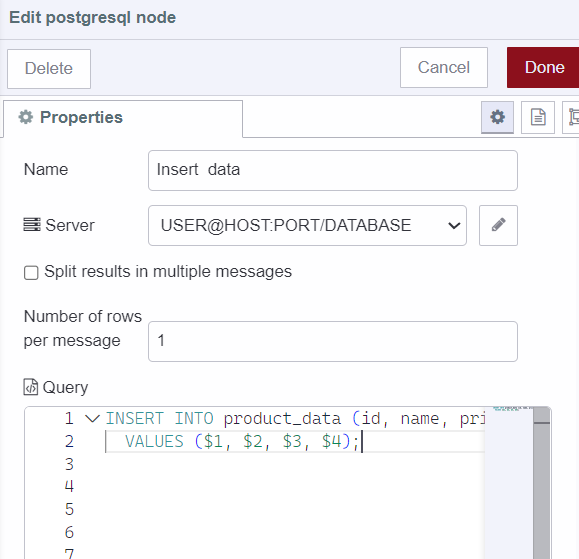
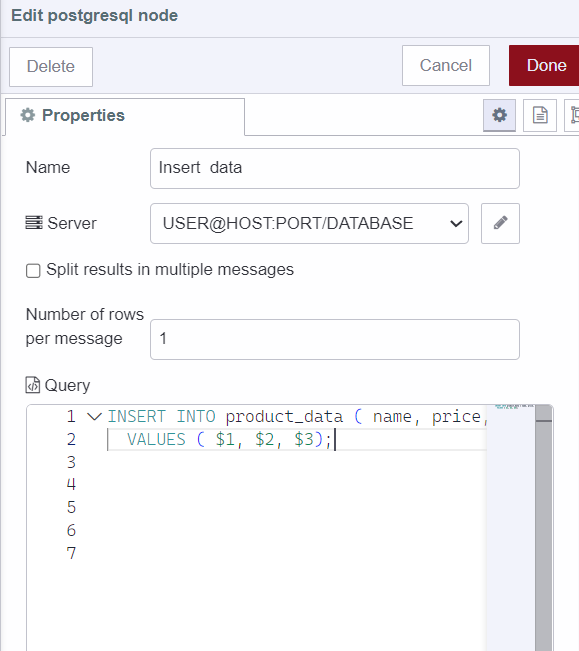
update blog post

diff --git a/src/blog/2024/02/postgresql-with-node-red.md b/src/blog/2024/02/postgresql-with-node-red.md
@@ -31,14 +31,14 @@ The first thing we need to do to get things started is to install the PostgreSQL
 - Host: IP address or hostname of your PostgreSQL server.
 - Port: By default, PostgreSQL uses port 5432. Ensure this matches your PostgreSQL server configuration.
 - Database: The name of the PostgreSQL database you want to connect to.
-- User: username with the necessary privileges to access the specified database.
-- Password: corresponding password for the username.
+- User: Username with the necessary privileges to access the specified database.
+- Password: Corresponding password for the username.
 
 3. Drag the PostgreSQL node onto the canvas, click on that node and click on the edit icon next to the server input field to configure it.
 
-!["Configuring PostgreSQL"](./images/postgresql_with_node-red_pgconfig1.png "Configuring PostgreSQL")
+!["Configuring PostgreSQL - connection tab"](./images/postgresql_with_node-red_pgconfig1.png "Configuring PostgreSQL - connection tab")
 
-!["Configuring PostgreSQL"](./images/postgresql_with_node-red_pgconfig2.png "Configuring PostgreSQL")
+!["Configuring PostgreSQL - security tab"](./images/postgresql_with_node-red_pgconfig2.png "Configuring PostgreSQL - security tab")
 # Adding environment variables 
 
 We have discussed many times in previous blogs that using environment variables is a best practice that prevents revealing confidential configuration details such as API keys, passwords, secret keys, etc directly in the flow. Therefore, In this section, we will add environment variables for PostgreSQL configuration details, for more details see  [Using Environment Variables in Node-RED](https://flowfuse.com/blog/2023/02/environment-variables-in-node-red/).
@@ -59,8 +59,8 @@ In this section, we will create a table in our database to store product data.
 ```sql
 -- Create a table named product_data if it does not already exist
 CREATE TABLE IF NOT EXISTS product_data (
-  -- Define a column named id as a bigint type, which serves as the primary key
-  id SERIAL PRIMARY KEY,
+  -- Define a column named id as a SERIAL type, which serves as the primary key
+  id SERIAL PRIMARY KEY, -- SERIAL data type automatically generates unique integer values for each row inserted into the table
   
   -- Define a column named name to store product names as variable-length character strings with a maximum length of 100 characters, ensuring it's not null
   name varchar(100) NOT NULL,
@@ -86,16 +86,16 @@ In this section, we will add a Form interface that will enable us to obtain prod
 
 !["Adding form to insert data"](./images/postgresql_with_node-red_form1.png "Adding form to insert data")
 1. Drag a Ui-Form widget onto the canvas and select the created group.
-2. Add an element for all required input data in the form widget and give it a name, label, and select type, I have selected 'number' as a type for 'product id', 'price', and 'stock', and 'text' for 'name', but feel free to adjust according to your preference and data requirements.
+2. Add an element for all required input data in the form widget and give it a name, label, and select type, I have selected 'number' as a type for 'price' and 'stock', and 'text' for 'name', but feel free to adjust according to your preference and data requirements.
 3. Drag the function node onto Canvas and paste the following script.
 
 ```javascript
 // Destructure the properties from msg.payload (obtained data by using form)
-const { id, name, price, stock } = msg.payload;
-// Create an array containing id, name, price, and stock
+const {name, price, stock } = msg.payload;
+// Create an array containing name, price, and stock
 // The order of the array items in msg.params will correspond to the placeholders in the SQL query
-// For example, $1 will be replaced by the value of id, $2 will be replaced by the value of name, and so on
-msg.params = [id, name, price, stock];
+// For example, $1 will be replaced by the value of name, $2 will be replaced by the value of price, and so on
+msg.params = [name, price, stock];
 return msg;
 ```
 
@@ -103,14 +103,14 @@ return msg;
 
 ```sql
 -- This is an SQL INSERT statement used to add data into the product_data table.
-INSERT INTO product_data (id, name, price, stock)
--- This line specifies the columns into which data will be inserted. The columns are id, name, price, and stock.
+INSERT INTO product_data ( name, price, stock)
+-- This line specifies the columns into which data will be inserted. The columns are name, price, and stock.
 -- It's important to match the columns in the same order as the values in the next line.
-VALUES ($1, $2, $3, $4);
+VALUES ($1, $2, $3);
 ```
 !["Inserting data into database"](./images/postgresql_with_node-red_insert_data.png "Inserting data into database")
 
-5. Connect ui-form’s output to function node’s input, and function node's output to the PostgreSQL node’s input.
+5. Connect Ui-form’s output to function node’s input, and function node's output to the PostgreSQL node’s input.
 
 # Displaying product data on Dashboard 2.0
 In this section, we will retrieve all data from our database table and display it on Dashboard 2.0 using the Ui-table widget.
@@ -118,7 +118,7 @@ In this section, we will retrieve all data from our database table and display i
 1. Drag an Inject node onto canvas.
 2. Drag a PostgreSQL node onto the Canvas and click on that node and paste the following SQL command into the query input field. 
 3. Drag a Ui-table widget onto canvas and create a new Ui group for it.
-4. Connect ui-form’s output to function node’s input, and function node's output to the PostgreSQL node’s input.
+4. Connect inject node's output to PostgreSQL node’s input, and PostgreSQL node's output to the Ui-table's input.
 ```sql
 -- Retrieve all data from the product_data table
 SELECT * FROM product_data;
@@ -163,7 +163,7 @@ WHERE id = $1;
 
 !["Updating product data to the database"](./images/postgresql_with_node-red_update_data.png "Updating product data to the database")
 
-5. Connect ui-form’s output to function node’s input, and function node's output to the PostgreSQL node’s input.
+5. Connect Ui-form’s output to function node’s input, and function node's output to the PostgreSQL node’s input.
 
 # Deleting product data from the database
 
@@ -194,7 +194,7 @@ WHERE id = $1 AND name = $2;
 ```
 !["Deleting product data to the database"](./images/postgresql_with_node-red_delete_data.png "Deleting product data to the database")
 
-5. Connect ui-form’s output to function node’s input, and function node's output to PostgreSQL node’s input.
+5. Connect Ui-form’s output to function node’s input, and function node's output to PostgreSQL node’s input.
 
 # Dropping Table
 In this section, we will understand how to drop ( delete ) tables from the database.
@@ -214,7 +214,7 @@ DROP TABLE IF EXISTS product_data;
 # Deploying Flow
 !["Deploying Inventory management system's flow"](./images/postgresql_with_nodred_environment_variable_ff_editor.png "Deploying Inventory management system's flow")
 
-Our Inventory Management System is now complete and ready for deployment. To initiate the deployment process, locate the red 'Deploy' button positioned in the top right corner. To create, drop tables, and retrieve table data, you need to click on the 'Inject Node's button. For product data insertion, updates, and deletions, navigate to https://<your-instance-name>.flowfuse.cloud/dashboard.
+Our Inventory Management System is now complete and ready for deployment. To initiate the deployment process, locate the red 'Deploy' button positioned in the top right corner. To create, drop tables, and retrieve table data, you need to click on the 'Inject Node's button. For product data insertion, updates, and deletions, navigate to `https://<your-instance-name>.flowfuse.cloud/dashboard`.
 
 !["Inventory management system"](./images/postgresql_with_node-red_Inventory_management_system.png "Inventory management system")
 
@@ -223,11 +223,9 @@ Throughout this guide, we have followed some best practices that we think need t
 
 1. Connection Pooling: Implementing connection pooling can significantly enhance the performance of PostgreSQL. It allows multiple clients to reuse a set of database connections, which reduces the overhead of establishing new connections for each query. By configuring PostgreSQL to use connection pooling, you can optimize resource usage and improve overall system performance. Rest assured that in this guide, we have already configured our PostgreSQL to use connection pooling via the Postgres Config node/tab.
 
-2. Environment Variables: The [Twelve Factors](https://12factor.net/) emphasize the importance of separating configuration from code(flow) to ensure better security. Storing database credentials within the codebase can pose a security risk. Instead, expose the configuration details, as environment variables. This ensures that sensitive information remains secure and can be managed separately from the codebase.
+2. Environment Variables: The [Twelve Factors](https://12factor.net/) emphasize the importance of separating configuration details from the code (flow) to ensure better security. Storing database credentials within the codebase can pose a security risk. Instead, expose the configuration details, as environment variables. This ensures that sensitive information remains secure and can be managed separately from the codebase.
 
-3. Primary Key Types: Choosing the appropriate data type for primary keys is crucial for database scalability and performance. While INT may suffice for small-scale applications, it's recommended to use BIGINT or UUID as primary keys for larger datasets. BIGINT offers a larger storage capacity and is more suitable for long-term scalability without the need for frequent migrations.
-
-4. Credential Rotation: Regularly rotating database credentials is essential for maintaining robust security practices. This includes changing login information for managed databases and other database access points. Implementing a scheduled credential rotation process, such as quarterly 'rotation days,' streamlines the task and reduces the risk of unauthorized access. 
+3. Credential Rotation: Regularly rotating database credentials is essential for maintaining robust security practices. This includes changing login information for managed databases and other database access points. Implementing a scheduled credential rotation process, such as quarterly 'rotation days,' streamlines the task and reduces the risk of unauthorized access. 
 
 # Conclusion 
 This guide has demonstrated the integration of PostgreSQL with Node-RED. Throughout this article we've built an inventory management system with data stored in a database. You've learned to create and drop tables, and performing operations like inserting, updating, and deleting data. Also, we have highlighted best practices such as utilizing environment variables and selecting certified nodes to ensure security.
